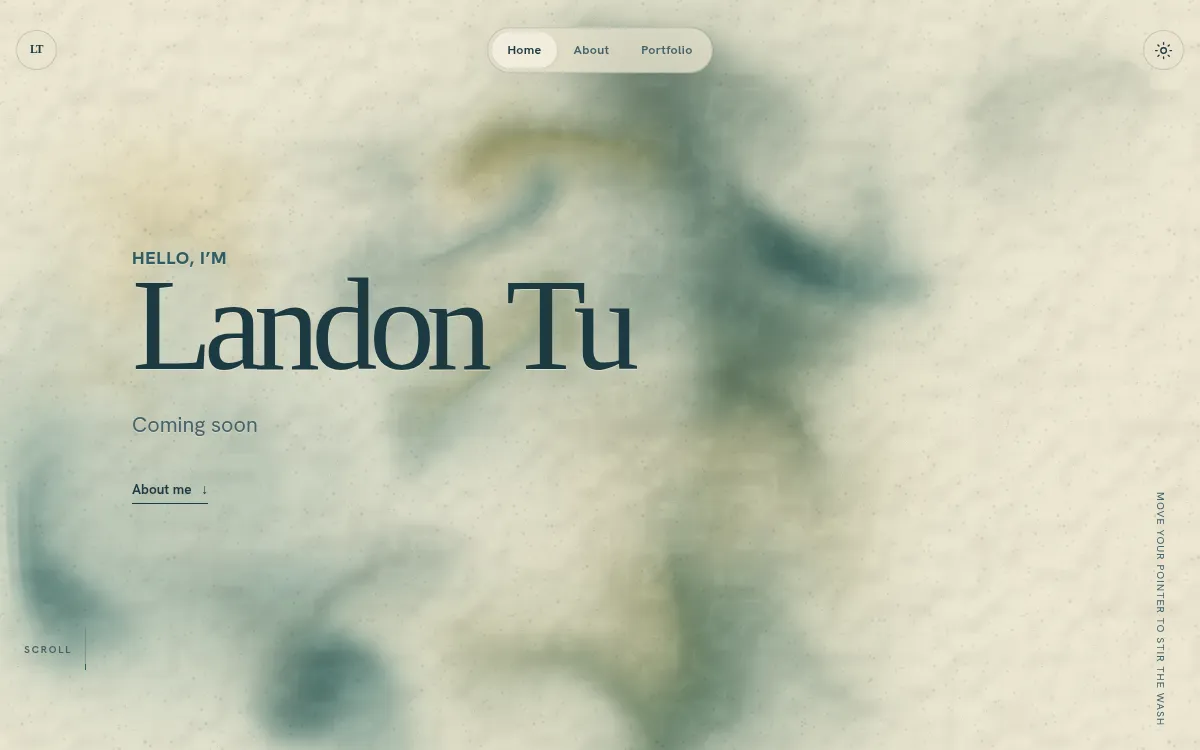
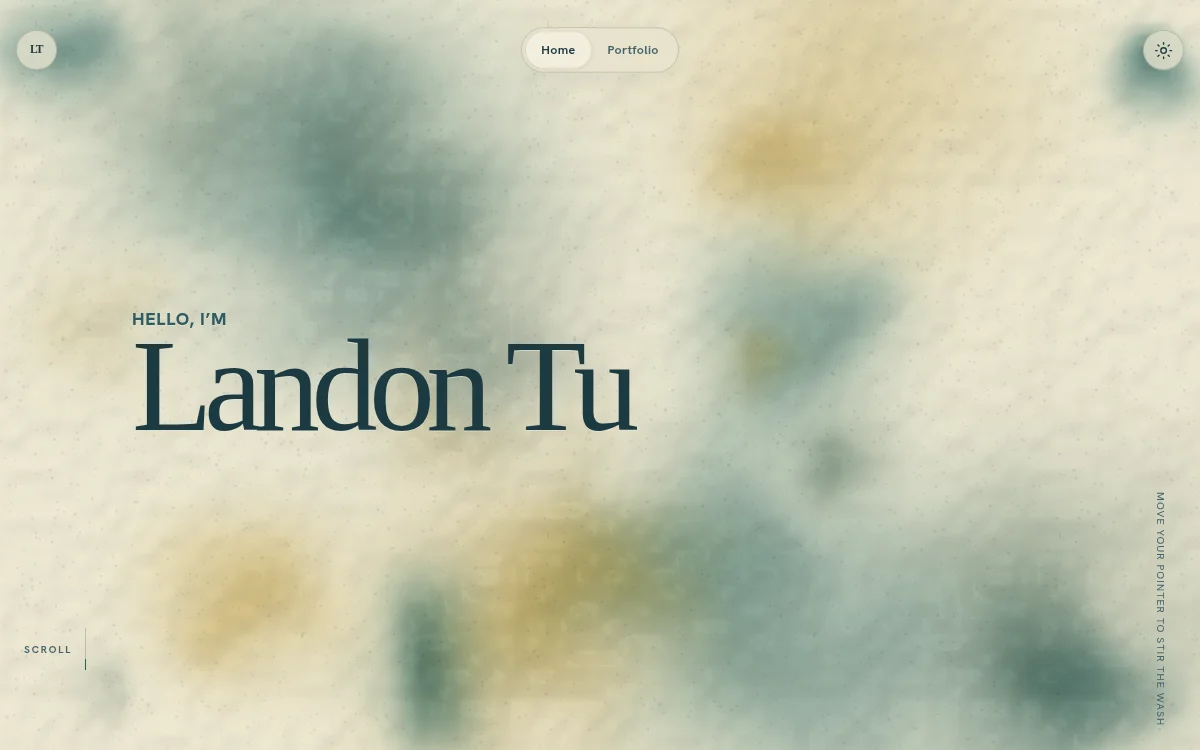
Hide deferred personal sections

diff --git a/site.js b/site.js
@@ -33,16 +33,16 @@
      index.html. On index.html that is a full document reload: the watercolor
      canvas is torn down and reseeded, the panel's settings were (until the
      companion change in watercolor/main.js) thrown away, and the reader is
-     teleported to the top with no transition — while the sibling "About" link,
-     one pixel away in the same nav, scrolls smoothly. Two links in one nav
-     behaving differently is the actual complaint.
+     teleported to the top with no transition — while sibling in-page links
+     scroll smoothly. Links in one nav behaving differently is the actual
+     complaint.
 
      Fixed by predicate rather than by selector: any anchor whose resolved URL
      is THIS document (same path and query, hash ignored) is a scroll, not a
-     navigation. That is what makes the nav symmetric now that Home, About and
-     Portfolio are all the same document — the three of them take one code
-     path, and so do the hero's "About me" link, the scroll cue and the footer
-     byline. It automatically stops covering anything from the about.html /
+     navigation. That is what keeps the nav symmetric now that its entries are
+     on the same document. The hero entry point (when restored), scroll cue,
+     and footer byline take that path too. It automatically stops covering
+     anything from the about.html /
      portfolio.html redirect stubs, where index.html genuinely IS a different
      document.
 
@@ -51,7 +51,7 @@
      for. Smoothness is NOT specified here either: the scrolls below omit
      `behavior`, which resolves to the element's computed `scroll-behavior`, so
      they inherit styles.css:69 and its reduced-motion override at styles.css:321
-     exactly as the existing #about links already did. One definition of "does
+     exactly as the section links do. One definition of "does
      this page glide", in the stylesheet, where the media query already lives. */
   function samePage(a) {
     if (!a || a.target === '_blank' || a.hasAttribute('download')) return false;
@@ -129,7 +129,7 @@
     pointAt(current, true);
     window.addEventListener("resize", function () { pointAt(current, true); });
 
-    // All three nav entries are now the same document, so the resting pill has
+    // All nav entries are on the same document, so the resting pill has
     // to follow the reader instead of the URL. aria-current="page" stays on the
     // real page link (Home) — an in-page section is not a different page — and
     // the highlight is a purely visual scroll-spy on top of it.
@@ -155,7 +155,7 @@
   var journey = document.querySelector(".home-main");
 
   if (journey) {
-    // Arriving already below the fold — a #about deep link, a restored scroll
+    // Arriving already below the fold — a section deep link, a restored scroll
     // position — must not play the hero's entrance at a hero nobody can see.
     // Checked twice because neither check alone is enough: this script is
     // `defer`, so at parse time scrollY is still 0 for a fragment navigation

diff --git a/index.html b/index.html
@@ -29,11 +29,12 @@
     </a>
     <nav class="site-nav" aria-label="Primary">
       <span class="nav-highlight" aria-hidden="true"></span>
-      <!-- Nav order IS the scroll order. All three are same-document links, so
-           the delegated handler in site.js:61 turns every one of them into a
-           scroll; there is no page navigation left anywhere on this site. -->
+      <!-- Nav order IS the scroll order. The same-document links use the
+           delegated handler in site.js, so there is no page navigation here. -->
       <a href="index.html" aria-current="page" class="nav-here">Home</a>
+      <!-- About entry point — restore when the owner copy is ready:
       <a href="#about" data-spy="about">About</a>
+      -->
       <a href="#portfolio" data-spy="portfolio">Portfolio</a>
     </nav>
     <button class="theme-toggle" type="button" aria-label="Switch to dark theme" title="Switch theme">
@@ -52,19 +53,22 @@
         <div class="hero-rise">
           <p class="eyebrow">Hello, I’m</p>
           <h1>Landon Tu</h1>
-          <p class="hero-tagline">Coming soon</p>
+          <!-- Hero tagline slot — owner copy pending. -->
+          <!-- About entry point — restore when the owner copy is ready:
           <div class="hero-actions">
             <a class="text-link" href="#about">About me <span aria-hidden="true">↓</span></a>
           </div>
+          -->
         </div>
       </div>
-      <a class="scroll-cue" href="#about">
+      <a class="scroll-cue" href="#portfolio">
         <span class="scroll-cue-label">Scroll</span>
         <span class="scroll-cue-rail" aria-hidden="true"><i></i></span>
       </a>
     </section>
 
-    <section class="about-shell" id="about" aria-labelledby="about-heading">
+    <!-- About stays in source for restoration when the owner copy is ready. -->
+    <section class="about-shell" id="about" aria-labelledby="about-heading" hidden>
      <div class="about-inner">
       <!-- No second <h1> and no repeat of the name: on one page the hero
            already said it, and during the descent both were on screen at once,
@@ -79,11 +83,9 @@
      </div>
     </section>
 
-    <!-- Third movement. Same sheet language as about, one level further down
-         the descent: the about sheet's paper gradient has already reached its
-         89% plateau by here, so this section holds exactly that value and the
-         junction shows no seam. The card system below stays within the
-         portfolio page's existing visual language. -->
+    <!-- Portfolio follows the hero while About is hidden. Its CSS takes over
+         the wash-to-paper transition; restoring About restores the original
+         three-movement descent without another markup change. -->
     <section class="portfolio-shell" id="portfolio" aria-labelledby="portfolio-heading">
      <div class="portfolio-inner">
       <header class="portfolio-intro">

diff --git a/styles.css b/styles.css
@@ -292,6 +292,7 @@ a.project-visual:focus-visible { outline: 3px solid var(--gold); outline-offset:
     color-mix(in srgb, var(--paper) 62%, transparent) 7rem,
     color-mix(in srgb, var(--paper) 89%, transparent) 16rem);
 }
+.about-shell[hidden] { display: none; }
 .about-inner { width: min(100% - 3rem, 76rem); margin: 0 auto; padding: 4rem 0 0; }
 
 /* The about section opens on its own display word rather than a second copy
@@ -315,6 +316,15 @@ a.project-visual:focus-visible { outline: 3px solid var(--gold); outline-offset:
 .portfolio-shell {
   position: relative; z-index: 2;
   background: color-mix(in srgb, var(--paper) 89%, transparent);
+}
+/* While About is deferred, Portfolio becomes the second movement and owns the
+   same gradual wash-to-paper handoff that About normally provides. Removing
+   `hidden` from .about-shell restores the original flat continuation here. */
+.about-shell[hidden] + .portfolio-shell {
+  background: linear-gradient(to bottom,
+    color-mix(in srgb, var(--paper) 0%, transparent) 0,
+    color-mix(in srgb, var(--paper) 62%, transparent) 7rem,
+    color-mix(in srgb, var(--paper) 89%, transparent) 16rem);
 }
 .portfolio-inner { width: min(100% - 3rem, 76rem); margin: 0 auto; }
 /* Eyebrow in the 9rem rail, display word beside it — the same left gutter the

diff --git a/AGENTS.md b/AGENTS.md
@@ -15,10 +15,11 @@ Read [README.md](README.md) first for the project map and local workflow.
 
 ## Project constraints
 
-- `index.html` and the owner-text area in `watercolor.html` reserve the owner's
-  personal voice with “Coming soon.” Do not draft replacement copy. Project
-  description slots are intentionally empty source comments until owner copy
-  is available.
+- The hero tagline and About movement in `index.html` are deferred and hidden;
+  their restoration slots remain in source until owner copy is ready. The
+  owner-text area in `watercolor.html` uses “Coming soon.” Do not draft
+  replacement copy. Project description slots are intentionally empty source
+  comments until owner copy is available.
 - WebHome and recall-AID cards are deferred while their repositories are
   private. Restore them from git history only after public destinations are
   approved.

diff --git a/docs/PUBLISHING.md b/docs/PUBLISHING.md
@@ -106,8 +106,11 @@ surface or publish a deliberately reduced artifact before launch.
 These are documentation of the current files, not changes to site behavior or
 owner-authored content:
 
-- Owner-written text is intentionally held as “Coming soon.” Portfolio
-  description slots remain empty in source comments until owner copy is ready.
+- The hero tagline, About movement, About navigation item, and hero About link
+  are hidden until owner copy is ready; restoration slots remain in source.
+  The watercolor exhibit holds its owner-written text as “Coming soon.”
+  Portfolio description slots remain empty in source comments until owner copy
+  is ready.
 - WebHome and recall-AID are intentionally absent while their only destinations
   are private repositories. Their cards and screenshots are removed from
   `main` and remain recoverable from git history.
